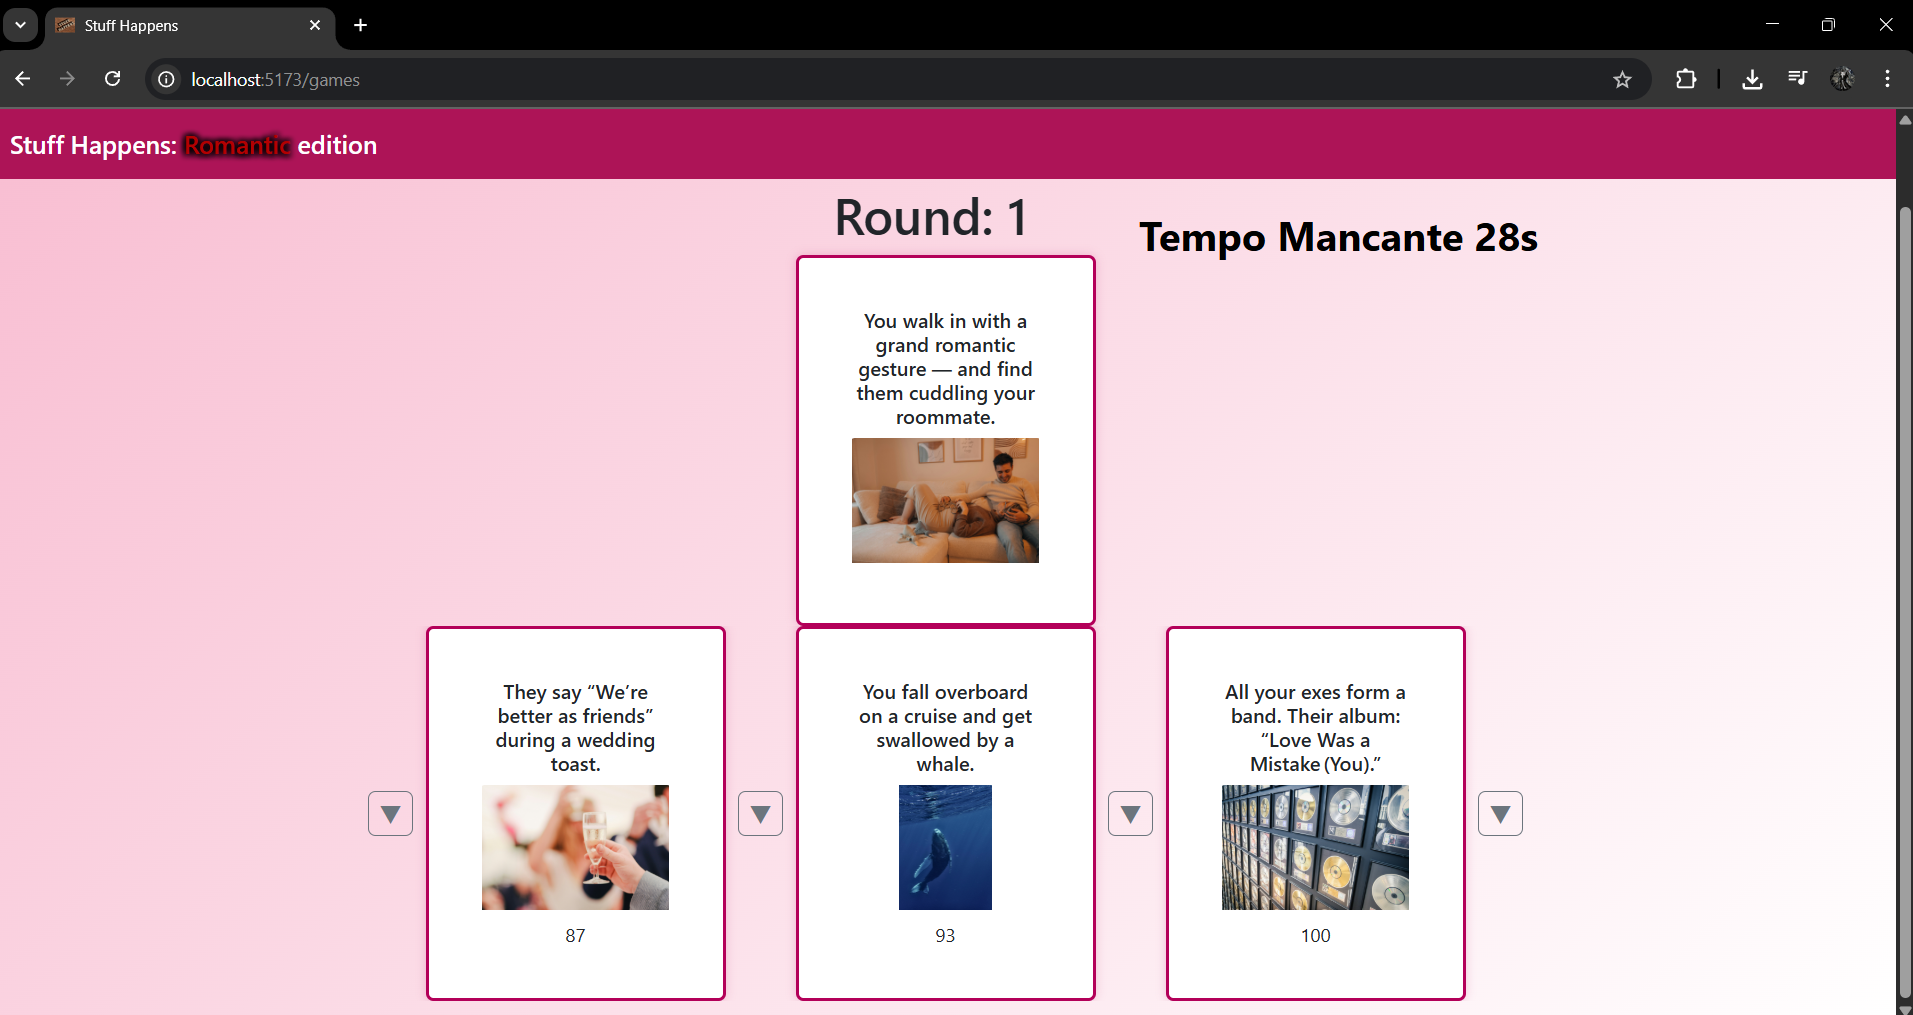
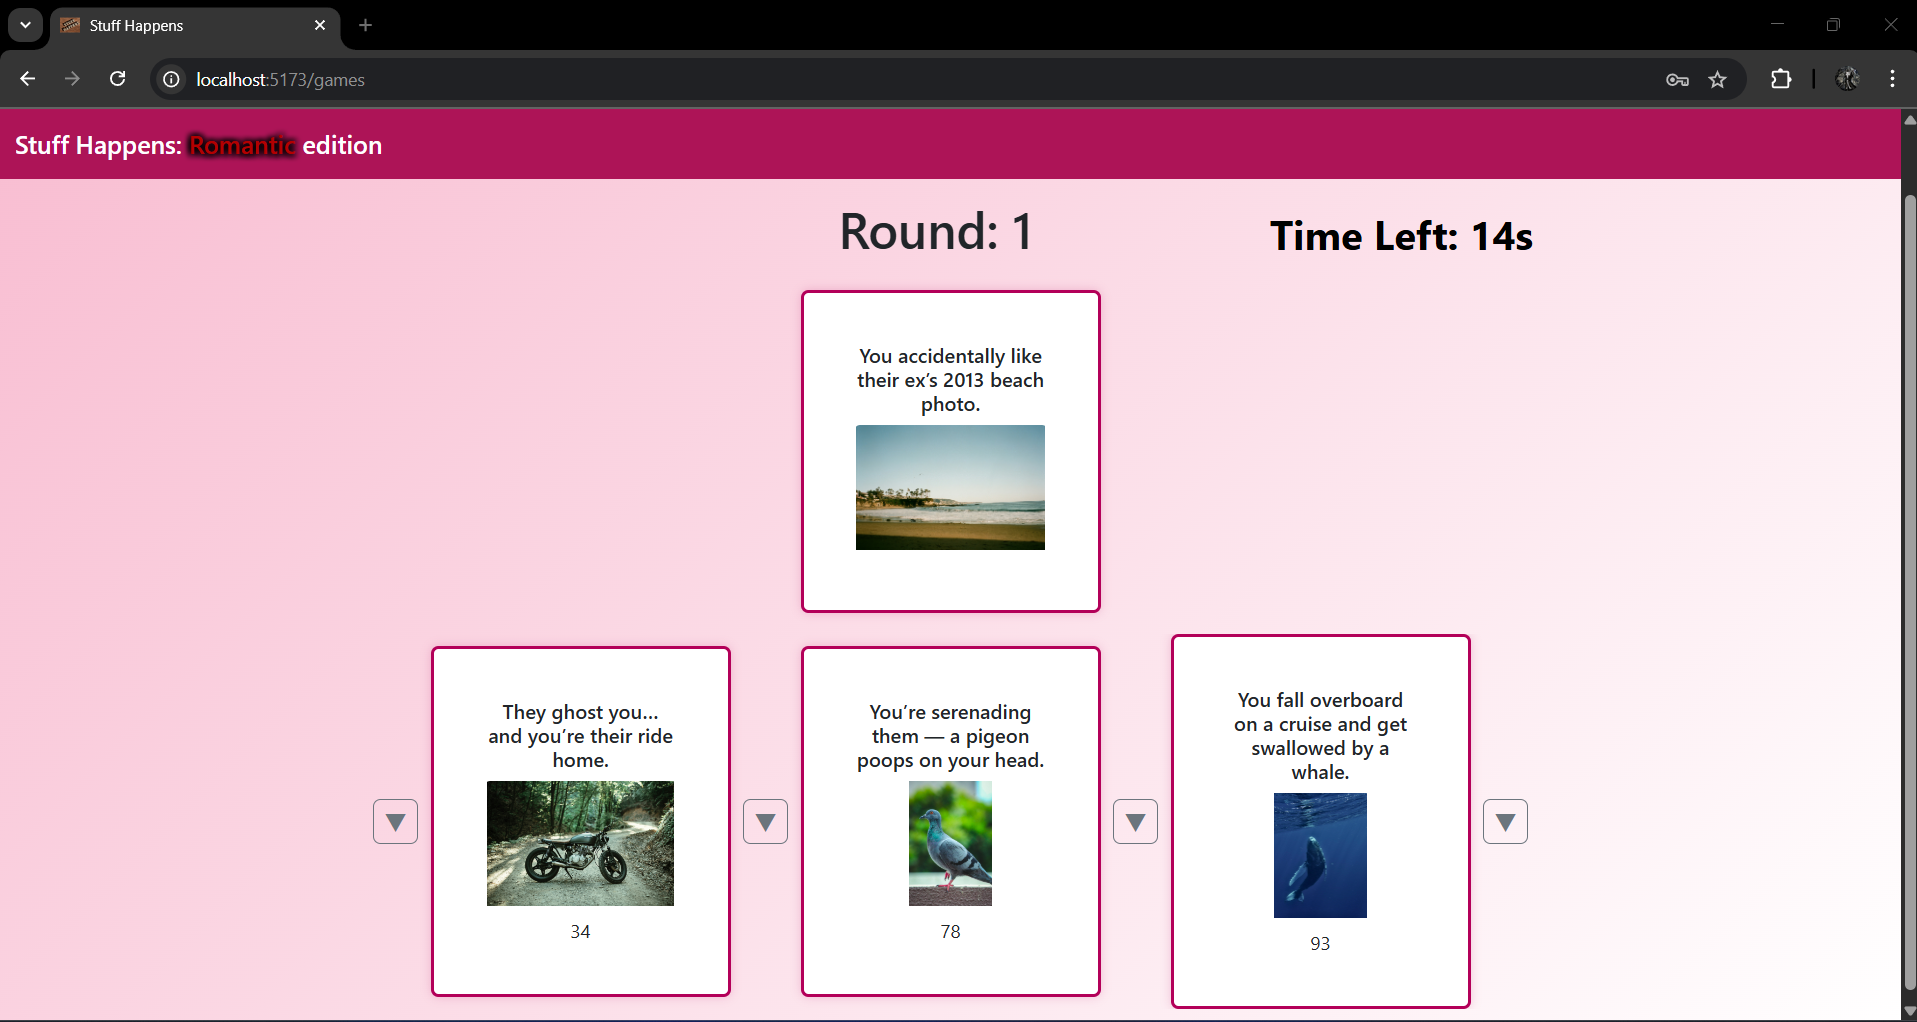
refactor: remove unused state and improve error handling in API and components

diff --git a/client/src/components/GameManager.jsx b/client/src/components/GameManager.jsx
@@ -1,5 +1,5 @@
-import { useState, useRef } from "react";
-import { Container, Card, Row, Col, Button } from "react-bootstrap";
+import { useState } from "react";
+import { Container, Row, Col, Button } from "react-bootstrap";
 import GameCard from "./GameCard.jsx";
 import dayjs from "dayjs";
 import API from "../API/API.mjs";
@@ -22,27 +22,27 @@ function GameManager(props) {
 
   const handleRoundStart = async (roundNumber, drawnCards = cardsDrawn) => {
     try {
-      const banned = drawnCards.map((card) => card.cardId);
-      const roundCard = await API.getCards(roundNumber, {
-        num: 1,
-        bannedCards: banned,
-        visibility: false,
-      });
-      setCardsDrawn(drawnCards.concat(roundCard));
-      setCardOfRound(roundCard[0]);
-      const startRound = dayjs().format("YYYY-MM-DD HH:mm:ss");
-      const newRound = new Round(
-        null,
-        startRound,
-        roundCard[0].cardId,
-        roundNumber,
-        false,
-        null
-      );
-      setCurrentRound(newRound);
-      await API.saveTimer(roundNumber, startRound);
-      setInGame(true);
-      setTimerKey((k) => k + 1);
+        const banned = drawnCards.map((card) => card.cardId);
+        const roundCard = await API.getCards(roundNumber, {
+          num: 1,
+          bannedCards: banned,
+          visibility: false,
+        });
+        setCardsDrawn(drawnCards.concat(roundCard));
+        setCardOfRound(roundCard[0]);
+        const startRound = dayjs().format("YYYY-MM-DD HH:mm:ss");
+        const newRound = new Round(
+          null,
+          startRound,
+          roundCard[0].cardId,
+          roundNumber,
+          false,
+          null
+        );
+        setCurrentRound(newRound);
+        await API.saveTimer(roundNumber, startRound);
+        setInGame(true);
+        setTimerKey((k) => k + 1);
     } catch (error) {
       setMessage && setMessage({ msg: "Error starting round", type: "danger" });
     }
@@ -66,7 +66,7 @@ function GameManager(props) {
     setTimeout(() => {
       setLoading(false);
       navigate("/games/summary", { state: { cardsInHand: updatedCardsInHand } });
-    }, 1000);
+    }, 500);
   };
 
   const handleEndRound = async (won, card) => {
@@ -102,11 +102,10 @@ function GameManager(props) {
 
   return (
     <Container fluid className="main-content" style={{ minHeight: "100vh", display: "flex", flexDirection: "column", padding: 0 }}>
-      {loading ? (
+      {(loading) ? (
         <Row className="justify-content-center align-items-center" style={{ minHeight: "100vh" }}>
-          <Col xs="auto" className="text-center">
-            <div className="spinner-border text-primary" role="status" style={{ width: "5rem", height: "5rem" }}>
-              <span className="visually-hidden">Loading...</span>
+          <Col className="text-center">
+            <div className="spinner-border text-dark" role="status" style={{ width: "5rem", height: "5rem" }}>
             </div>
             <div className="mt-4">
               <span style={{ fontSize: "2.2rem", fontWeight: "bold" }}>
@@ -118,27 +117,22 @@ function GameManager(props) {
       ) : inGame ? (
         <div className="main-content d-flex flex-column justify-content-between align-items-center" style={{ flex: 1, width: "100%" }}>
           <div className="w-100 position-relative" style={{ minHeight: "1vh" }}>
-            <Row className="text-center w-100">
-              <Col>
+            <Row className="align-items-center w-100">
+              <Col xs={4} />
+              <Col className="text-center">
                 <h1>Round: {currentRound?.roundNumber || "-"}</h1>
               </Col>
+              <Col className="text-end">
+                <Timer
+                  key={timerKey}
+                  seconds={30}
+                  onTimeout={() => {
+                    setInGame(false);
+                    handleEndRound(false, cardOfRound);
+                  }}
+                />
+              </Col>
             </Row>
-            <div style={{
-              position: "absolute",
-              top: 0,
-              right: 0,
-              padding: "16px",
-              zIndex: 10
-            }}>
-              <Timer
-                key={timerKey}
-                seconds={30}
-                onTimeout={() => {
-                  setInGame(false);
-                  handleEndRound(false, cardOfRound);
-                }}
-              />
-            </div>
           </div>
 
 

diff --git a/client/src/components/Timer.jsx b/client/src/components/Timer.jsx
@@ -1,25 +1,21 @@
 import { useEffect, useState } from "react";
 
-function Timer({ seconds, onTimeout }) {
-  const [timeLeft, setTimeLeft] = useState(seconds);
-  const [timeoutCalled, setTimeoutCalled] = useState(false);
+function Timer( props ) {
+  const [timeLeft, setTimeLeft] = useState(props.seconds);
+
 
   useEffect(() => {
-    setTimeLeft(seconds); 
-    setTimeoutCalled(false); 
-  }, [seconds]);
+    setTimeLeft(props.seconds); 
+  }, [props.seconds]);
 
   useEffect(() => {
     if (timeLeft <= 0) {
-      if (!timeoutCalled) {
-        onTimeout && onTimeout();
-        setTimeoutCalled(true);
-      }
+        props.onTimeout && props.onTimeout();
       return;
     }
     const timer = setTimeout(() => setTimeLeft(timeLeft - 1), 1000);
     return () => clearTimeout(timer);
-  }, [timeLeft, onTimeout, timeoutCalled]);
+  }, [timeLeft]);
 
   return (
     <div style={{ fontWeight: "bold", fontSize: "2rem", color: "#000" }}>

diff --git a/client/src/App.jsx b/client/src/App.jsx
@@ -19,7 +19,6 @@ function App() {
   const [loggedIn, setLoggedIn] = useState(false);
   const [message, setMessage] = useState("");
   const [user, setUser] = useState("");
-  const [state, setState] = useState(1); 
   const [hideLinks, setHideLinks] = useState(false);
   const [gameData, setGameData] = useState(null);
   
@@ -75,10 +74,9 @@ function App() {
       false,
       null
     );
-
     setGameData({
       game: new Game(
-        user._id,
+        user.id,
         dayjs().format('YYYY-MM-DD HH:mm:ss'),
         drawn[0],
         drawn[1],
@@ -115,8 +113,6 @@ function App() {
             <HomePage
               loggedIn={loggedIn}
               user={user}
-              state={state}
-              setState={setState}
               setHideLinks={setHideLinks}
               onStartGame={() => startGame(user)}
               message={message}

diff --git a/client/src/components/AuthComponents.jsx b/client/src/components/AuthComponents.jsx
@@ -26,7 +26,7 @@ function LoginForm(props) {
                 <Col>
                     <Form action={formAction} style={{ fontSize: "1.3rem", padding: "32px", border: "none", boxShadow: "none" }}>
                         <Form.Group controlId='username' className='mb-4'>
-                            <Form.Label style={{ fontSize: "2rem" }}>Username</Form.Label>
+                            <Form.Label style={{ fontSize: "2rem" }}>Email</Form.Label>
                             <Form.Control name='username' required style={{ fontSize: "1.2rem", padding: "12px" }} />
                         </Form.Group>
 

diff --git a/client/src/components/HomePage.jsx b/client/src/components/HomePage.jsx
@@ -6,7 +6,6 @@ function HomePage (props) {
   const navigate = useNavigate();
 
   useEffect(() => {
-    props.setState(1);
     props.setHideLinks(false);
   }, []);
 
@@ -64,7 +63,7 @@ function HomePage (props) {
         <Col xs={12} className="d-flex flex-column align-items-center">
           <Link
             className="btn btn-dark mb-4"
-            to="/howToPlay"
+            to="/HowToPlay"
             style={{ fontSize: "1.5rem", padding: "16px 40px", minWidth: "275px" }}
           >
             QUICK GUIDE

diff --git a/client/src/components/HowToPlay.jsx b/client/src/components/HowToPlay.jsx
@@ -48,7 +48,7 @@ function HowToPlay() {
           <Row className="fs-4 mt-4">
             <Col>
               <div>
-                Be careful, you only have 30 seconds or the round will be considered lost card!
+                Be careful, you only have 30 seconds or when you choose a card the round will be considered lost!
               </div>
             </Col>
           </Row>
